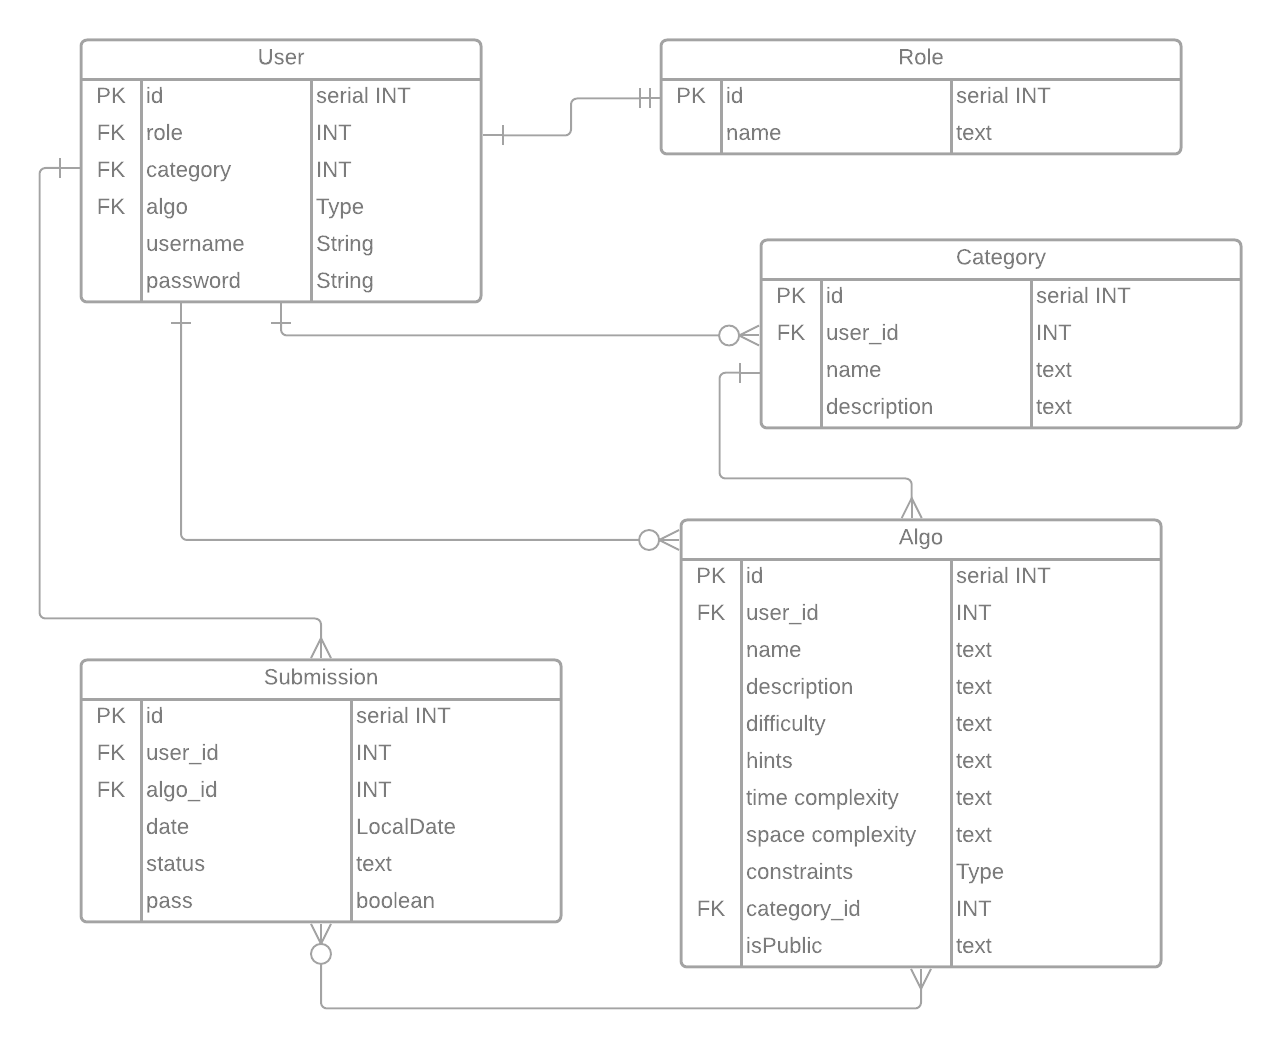
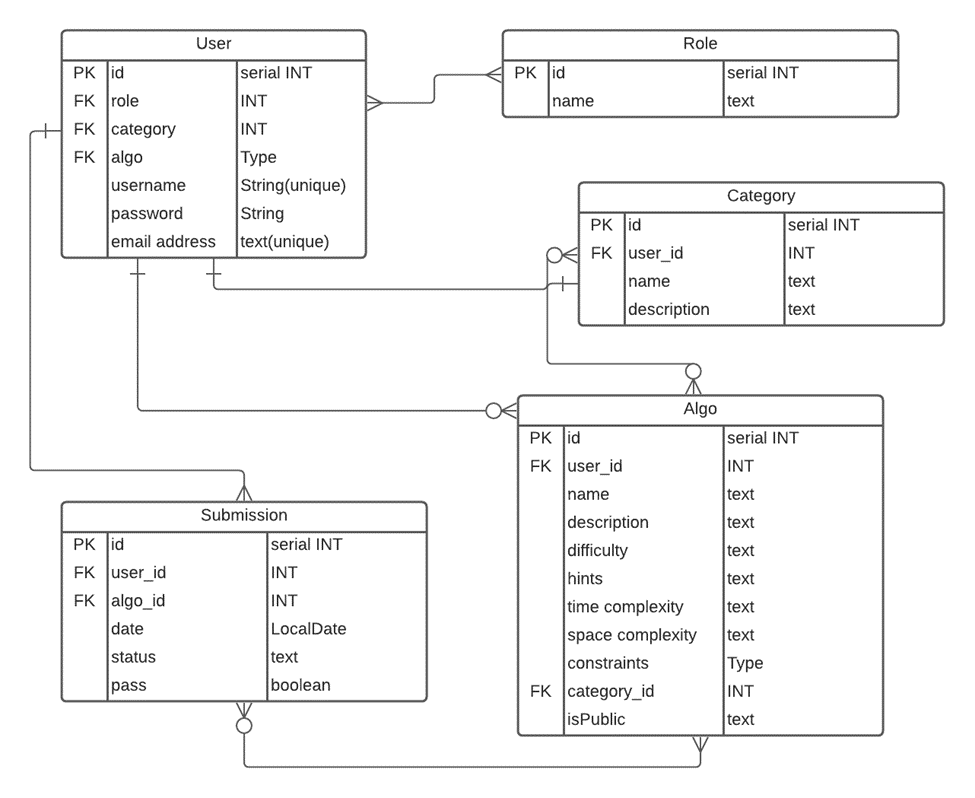
updated ERD image

diff --git a/README.md b/README.md
@@ -36,7 +36,7 @@ Only the admin has access to view submissions from every user.
 Our initial ERD diagram contained a one to many relationship between a User and Submissions, Categories
 and Algorithms. The User also had a one to one relationship with Role. 
 
-![img.png](img.png)
+![img.png](Images/img.png)
 
 ## Endpoints
 
